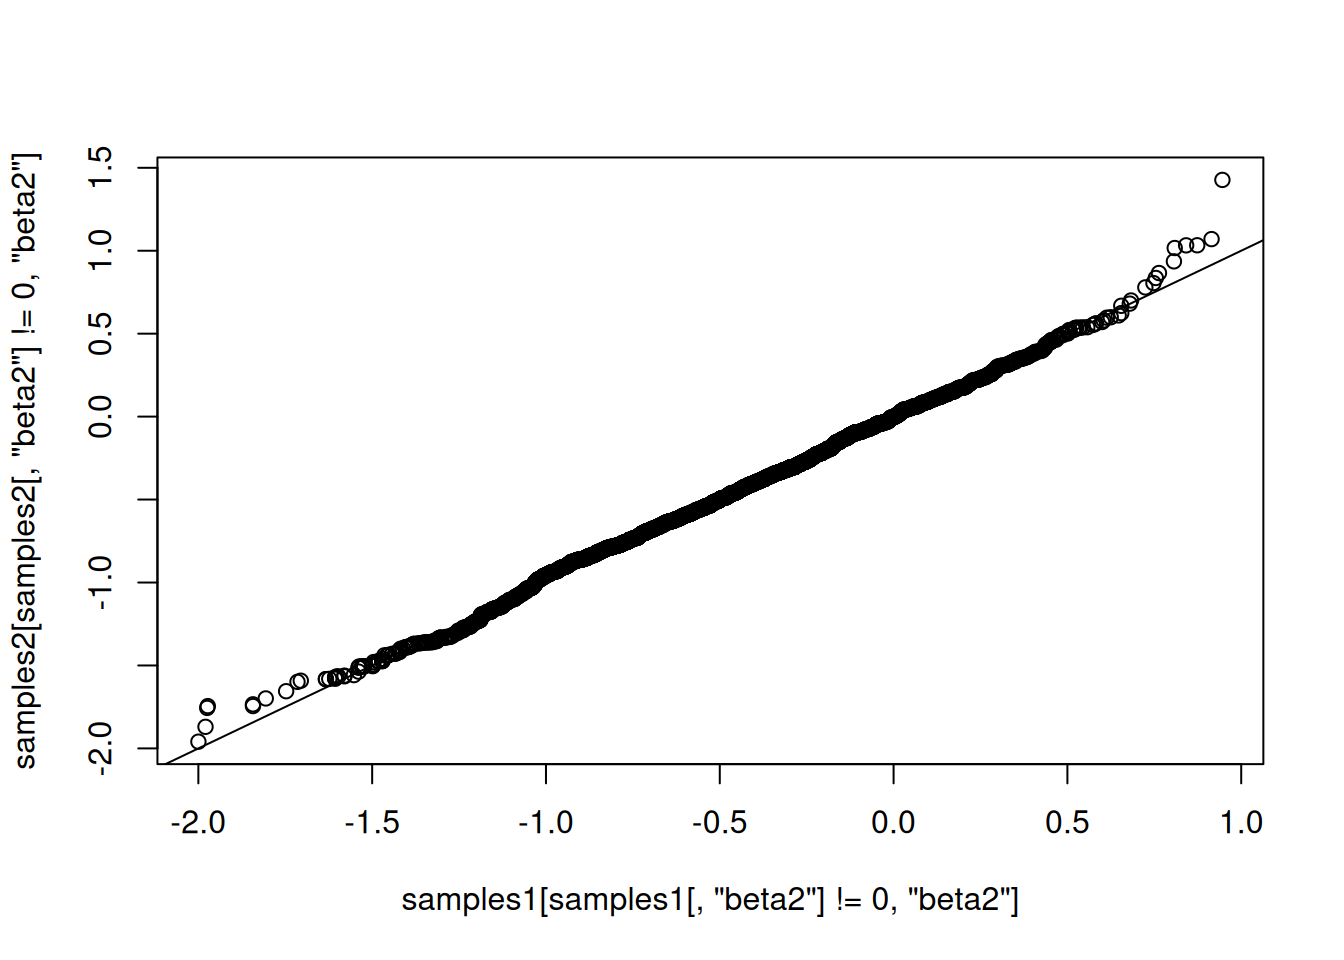
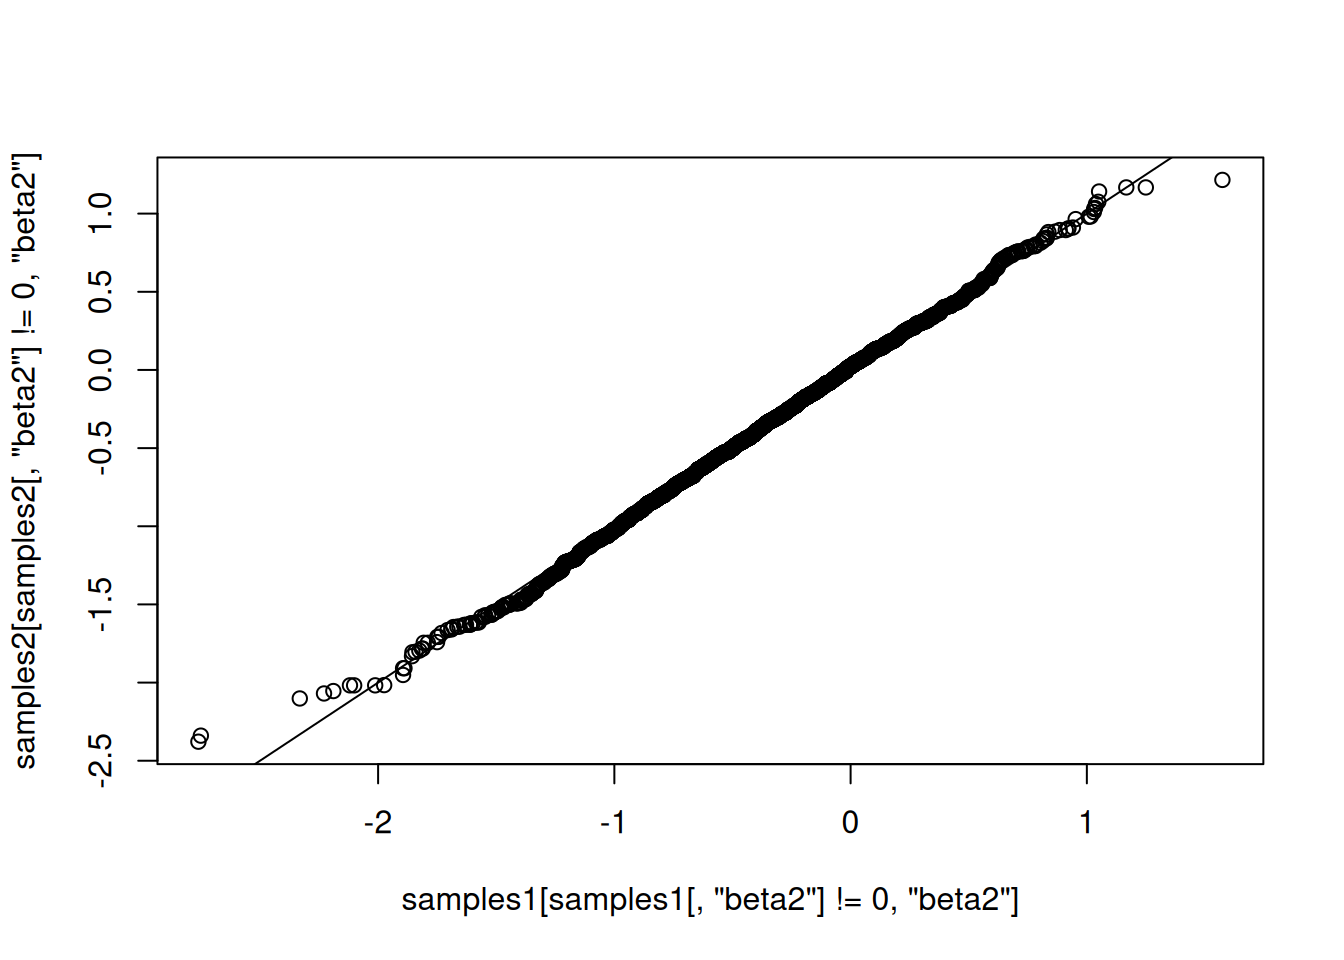
Built site for gh-pages

diff --git a/blog/index.html b/blog/index.html
@@ -332,7 +332,7 @@ window.Quarto = {
 <!-- margin-sidebar -->
     <div id="quarto-margin-sidebar" class="sidebar margin-sidebar">
         
-    <h5 class="quarto-listing-category-title">Categories</h5><div class="quarto-listing-category category-default"><div class="category" data-category="">All <span class="quarto-category-count">(73)</span></div><div class="category" data-category="YW5ub3VuY2VtZW50">announcement <span class="quarto-category-count">(67)</span></div><div class="category" data-category="ZWR1Y2F0aW9u">education <span class="quarto-category-count">(12)</span></div><div class="category" data-category="cmVsZWFzZQ==">release <span class="quarto-category-count">(39)</span></div><div class="category" data-category="dHV0b3JpYWw=">tutorial <span class="quarto-category-count">(6)</span></div></div></div>
+    <h5 class="quarto-listing-category-title">Categories</h5><div class="quarto-listing-category category-default"><div class="category" data-category="">All <span class="quarto-category-count">(73)</span></div><div class="category" data-category="YW5ub3VuY2VtZW50">announcement <span class="quarto-category-count">(67)</span></div><div class="category" data-category="ZWR1Y2F0aW9u">education <span class="quarto-category-count">(12)</span></div><div class="category" data-category="cmVsZWFzZQ==">release <span class="quarto-category-count">(39)</span></div><div class="category" data-category="dHV0b3JpYWw=">tutorial <span class="quarto-category-count">(8)</span></div></div></div>
 <!-- main -->
 <main class="content column-body" id="quarto-document-content">
 
@@ -1080,7 +1080,7 @@ NIMBLE Development Team
 </a>
 </div>
 </div>
-<div class="quarto-post image-right" data-index="23" data-categories="YW5ub3VuY2VtZW50" data-listing-date-sort="1616655600000" data-listing-file-modified-sort="1756429554700" data-listing-date-modified-sort="NaN" data-listing-reading-time-sort="10" data-listing-word-count-sort="1934">
+<div class="quarto-post image-right" data-index="23" data-categories="YW5ub3VuY2VtZW50JTJDdHV0b3JpYWw=" data-listing-date-sort="1616655600000" data-listing-file-modified-sort="1756758953003" data-listing-date-modified-sort="NaN" data-listing-reading-time-sort="10" data-listing-word-count-sort="1934">
 <div class="thumbnail"><a href="../blog/bayesian-nonparametric-models-in-nimble-general-multivariate-models.html" class="no-external">
 
 <p class="card-img-top"><img src="bayesian-nonparametric-models-in-nimble-general-multivariate-models_files/figure-html/unnamed-chunk-6-1.png"  class="thumbnail-image card-img"/></p>
@@ -1093,6 +1093,8 @@ NIMBLE Development Team
 <div class="listing-categories">
 
 <div class="listing-category" onclick="window.quartoListingCategory('YW5ub3VuY2VtZW50'); return false;">announcement</div>
+
+<div class="listing-category" onclick="window.quartoListingCategory('dHV0b3JpYWw='); return false;">tutorial</div>
 
 </div>
 <div class="delink listing-description"><a href="../blog/bayesian-nonparametric-models-in-nimble-general-multivariate-models.html" class="no-external">
@@ -1735,7 +1737,7 @@ Dec 6, 2018
 </a>
 </div>
 </div>
-<div class="quarto-post image-right" data-index="44" data-categories="YW5ub3VuY2VtZW50" data-listing-date-sort="1543910400000" data-listing-file-modified-sort="1756500300755" data-listing-date-modified-sort="NaN" data-listing-reading-time-sort="19" data-listing-word-count-sort="3772">
+<div class="quarto-post image-right" data-index="44" data-categories="YW5ub3VuY2VtZW50JTJDdHV0b3JpYWw=" data-listing-date-sort="1543910400000" data-listing-file-modified-sort="1756758928744" data-listing-date-modified-sort="NaN" data-listing-reading-time-sort="19" data-listing-word-count-sort="3772">
 <div class="thumbnail"><a href="../blog/bayesian-nonparametric-models-in-nimble-part-1-density-estimation.html" class="no-external">
 
 <p class="card-img-top"><img data-src="bayesian-nonparametric-models-in-nimble-part-1-density-estimation_files/figure-html/plot1-1.png"  class="thumbnail-image card-img"/></p>
@@ -1748,6 +1750,8 @@ Dec 6, 2018
 <div class="listing-categories">
 
 <div class="listing-category" onclick="window.quartoListingCategory('YW5ub3VuY2VtZW50'); return false;">announcement</div>
+
+<div class="listing-category" onclick="window.quartoListingCategory('dHV0b3JpYWw='); return false;">tutorial</div>
 
 </div>
 <div class="delink listing-description"><a href="../blog/bayesian-nonparametric-models-in-nimble-part-1-density-estimation.html" class="no-external">

diff --git a/blog/writing-reversible-jump-mcmc-in-nimble.html b/blog/writing-reversible-jump-mcmc-in-nimble.html
@@ -770,11 +770,11 @@ conjugate sampler (3)
 <div class="cell">
 <div class="sourceCode cell-code" id="cb48"><pre class="sourceCode r code-with-copy"><code class="sourceCode r"><span id="cb48-1"><a href="#cb48-1" aria-hidden="true" tabindex="-1"></a><span class="fu">mean</span>(samples1[,<span class="st">'beta2'</span>]<span class="sc">==</span><span class="dv">0</span>)</span></code><button title="Copy to Clipboard" class="code-copy-button"><i class="bi"></i></button></pre></div>
 <div class="cell-output cell-output-stdout">
-<pre><code>[1] 0.1005</code></pre>
+<pre><code>[1] 0.1231</code></pre>
 </div>
 <div class="sourceCode cell-code" id="cb50"><pre class="sourceCode r code-with-copy"><code class="sourceCode r"><span id="cb50-1"><a href="#cb50-1" aria-hidden="true" tabindex="-1"></a><span class="fu">mean</span>(samples2[,<span class="st">'beta2'</span>]<span class="sc">==</span><span class="dv">0</span>)</span></code><button title="Copy to Clipboard" class="code-copy-button"><i class="bi"></i></button></pre></div>
 <div class="cell-output cell-output-stdout">
-<pre><code>[1] 0.0933</code></pre>
+<pre><code>[1] 0.1325</code></pre>
 </div>
 <div class="sourceCode cell-code" id="cb52"><pre class="sourceCode r code-with-copy"><code class="sourceCode r"><span id="cb52-1"><a href="#cb52-1" aria-hidden="true" tabindex="-1"></a><span class="fu">qqplot</span>(samples1[ samples1[,<span class="st">'beta2'</span>] <span class="sc">!=</span> <span class="dv">0</span>,<span class="st">'beta2'</span>], samples2[samples2[,<span class="st">'beta2'</span>] <span class="sc">!=</span> <span class="dv">0</span>,<span class="st">'beta2'</span>])</span>
 <span id="cb52-2"><a href="#cb52-2" aria-hidden="true" tabindex="-1"></a><span class="fu">abline</span>(<span class="dv">0</span>,<span class="dv">1</span>)</span></code><button title="Copy to Clipboard" class="code-copy-button"><i class="bi"></i></button></pre></div>

diff --git a/recent-posts.html b/recent-posts.html
@@ -348,7 +348,7 @@ window.Quarto = {
 <!-- margin-sidebar -->
     <div id="quarto-margin-sidebar" class="sidebar margin-sidebar">
         
-    <h5 class="quarto-listing-category-title">Categories</h5><div class="quarto-listing-category category-default"><div class="category" data-category="">All <span class="quarto-category-count">(74)</span></div><div class="category" data-category="YW5ub3VuY2VtZW50">announcement <span class="quarto-category-count">(67)</span></div><div class="category" data-category="ZWR1Y2F0aW9u">education <span class="quarto-category-count">(12)</span></div><div class="category" data-category="cmVsZWFzZQ==">release <span class="quarto-category-count">(39)</span></div><div class="category" data-category="dHV0b3JpYWw=">tutorial <span class="quarto-category-count">(6)</span></div></div></div>
+    <h5 class="quarto-listing-category-title">Categories</h5><div class="quarto-listing-category category-default"><div class="category" data-category="">All <span class="quarto-category-count">(74)</span></div><div class="category" data-category="YW5ub3VuY2VtZW50">announcement <span class="quarto-category-count">(67)</span></div><div class="category" data-category="ZWR1Y2F0aW9u">education <span class="quarto-category-count">(12)</span></div><div class="category" data-category="cmVsZWFzZQ==">release <span class="quarto-category-count">(39)</span></div><div class="category" data-category="dHV0b3JpYWw=">tutorial <span class="quarto-category-count">(8)</span></div></div></div>
 <!-- main -->
 <main class="content quarto-banner-title-block column-body" id="quarto-document-content">
 

diff --git a/blog/bayesian-nonparametric-models-in-nimble-general-multivariate-models.html b/blog/bayesian-nonparametric-models-in-nimble-general-multivariate-models.html
@@ -359,6 +359,7 @@ window.Quarto = {
 <h1 class="title">Bayesian Nonparametric Models in NIMBLE: General Multivariate Models</h1>
   <div class="quarto-categories">
     <div class="quarto-category">announcement</div>
+    <div class="quarto-category">tutorial</div>
   </div>
   </div>
 

diff --git a/blog/bayesian-nonparametric-models-in-nimble-part-1-density-estimation.html b/blog/bayesian-nonparametric-models-in-nimble-part-1-density-estimation.html
@@ -360,6 +360,7 @@ window.Quarto = {
 <h1 class="title">Bayesian Nonparametric Models in NIMBLE, Part 1: Density Estimation</h1>
   <div class="quarto-categories">
     <div class="quarto-category">announcement</div>
+    <div class="quarto-category">tutorial</div>
   </div>
   </div>
 
